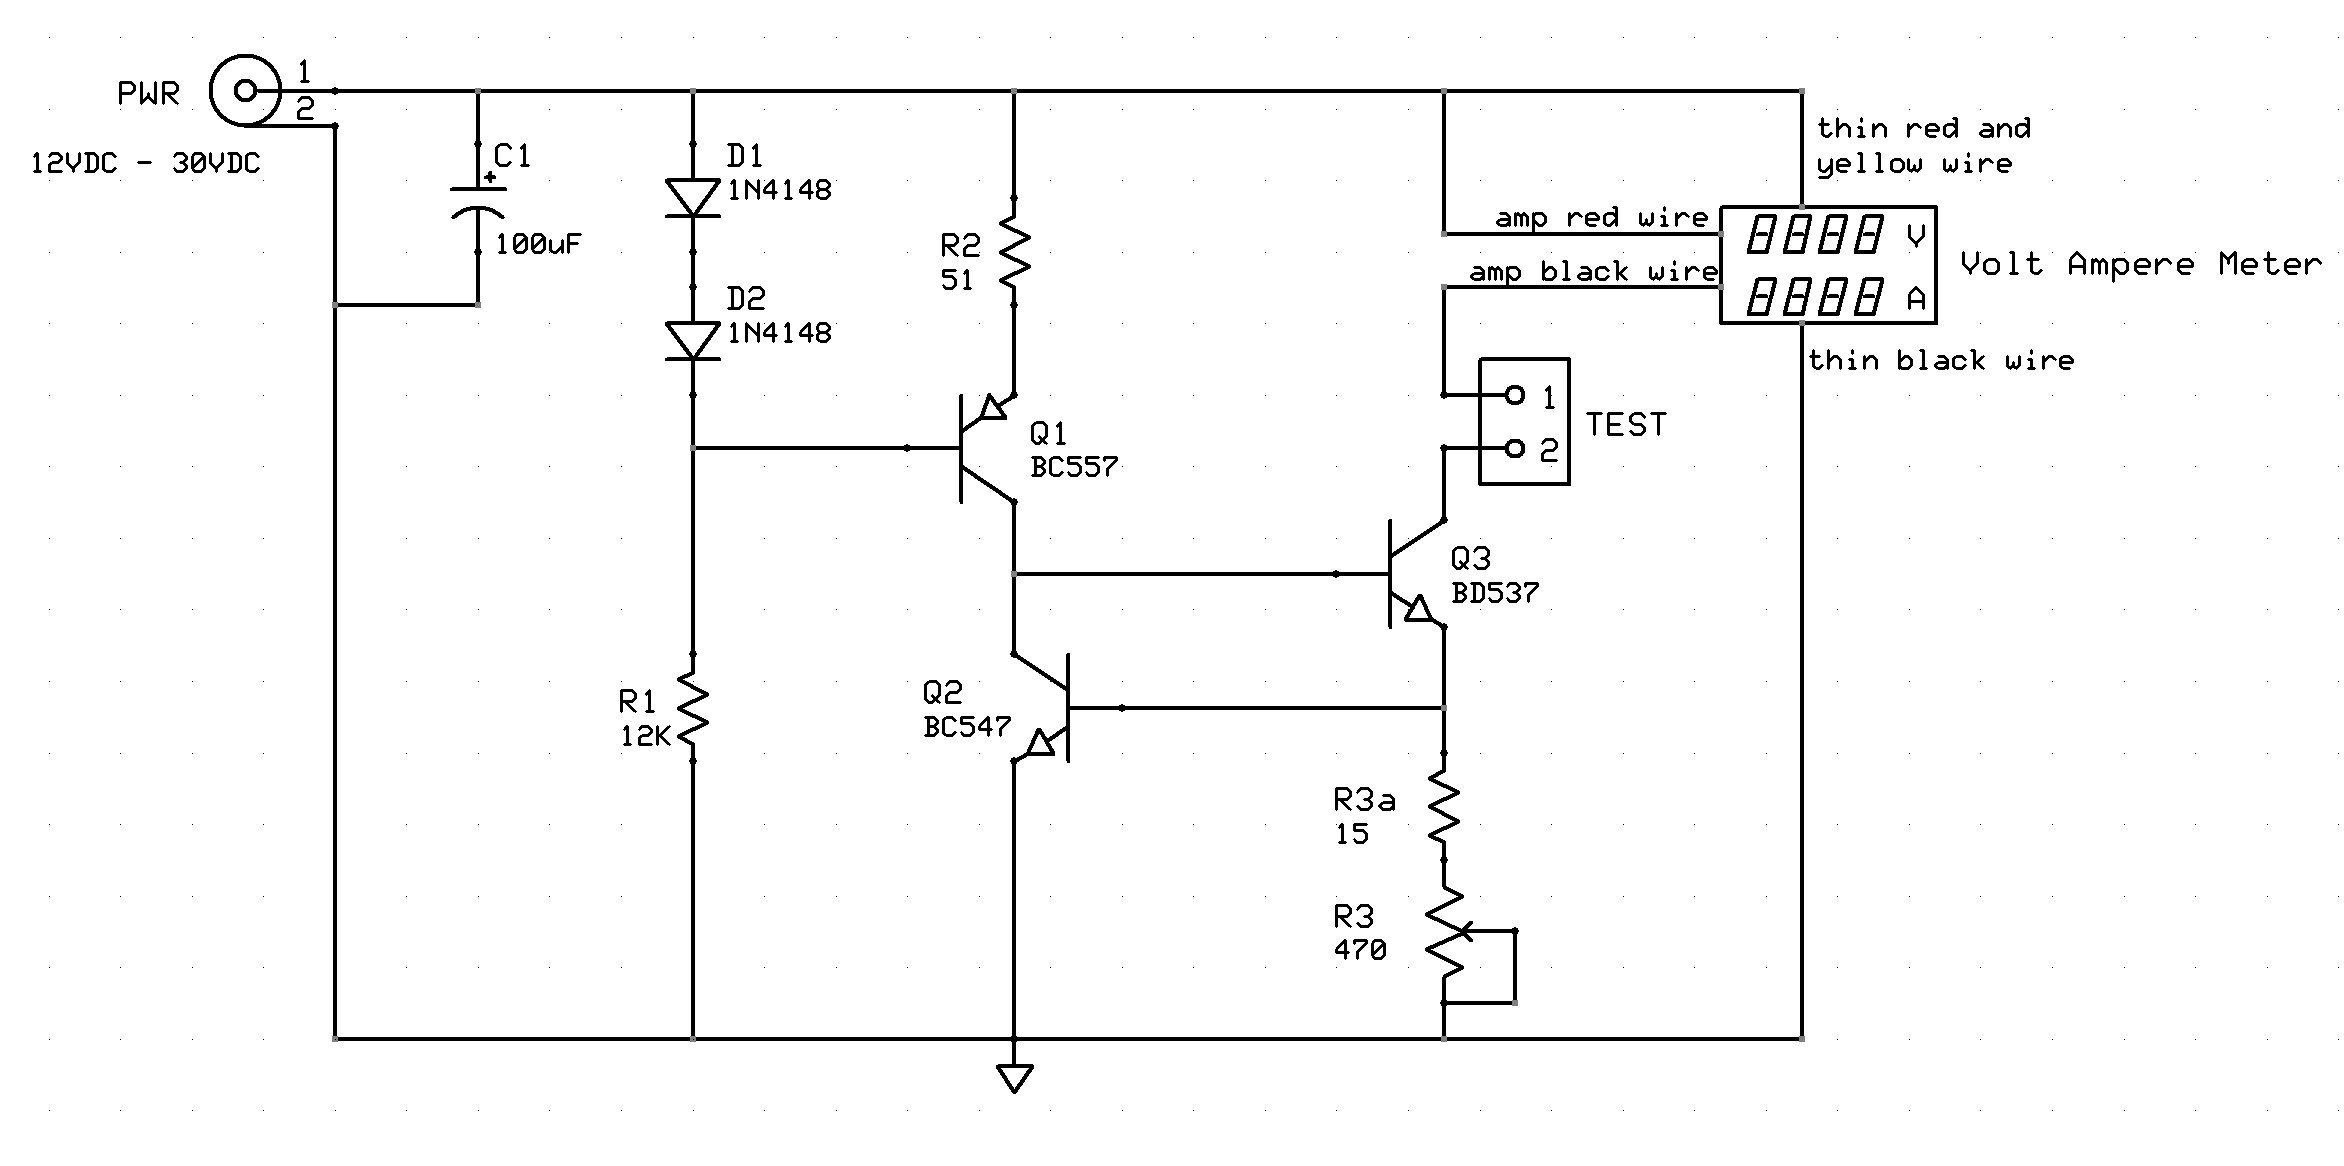
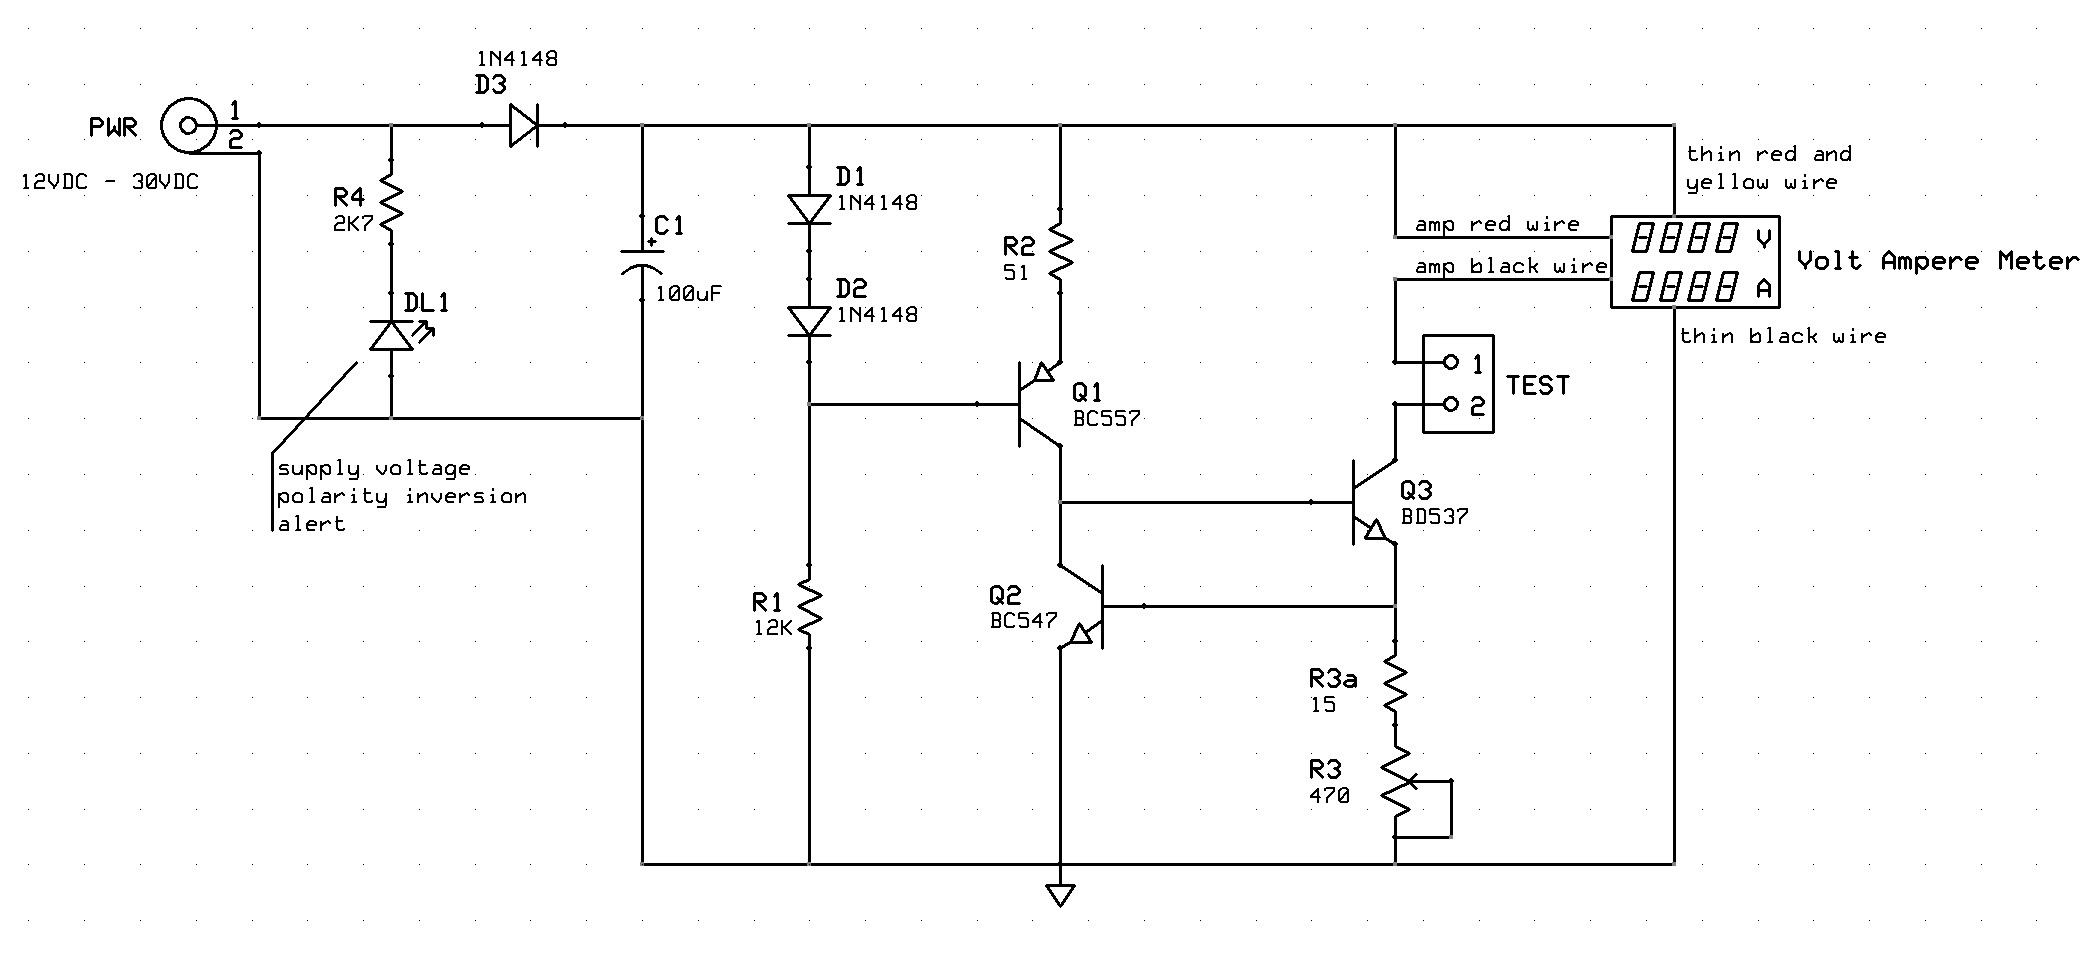
add polarity protection and circuit calculations

diff --git a/README.md b/README.md
@@ -1,7 +1,7 @@
 # Diode tester
-A simple tester to measure, under different current values, the voltage drop across a diode when forward biased, or the working voltage of a Zener diode, when reverse biased.
+A simple tester to measure, under different current values, the voltage drop across a diode when forward biased, or the working voltage of a zener diode when reverse biased.
 <br>
-The circuit may be powered from $12VDC$ to $30VDC$. Obviously the maximum measurable zener voltage depends on the supply voltage.
+The circuit may be powered from $12VDC$ to $24VDC$. Obviously the maximum measurable zener voltage depends on the supply voltage.
 
 ![overview](resources/diode-tester_overview.jpg)
 ![inside](resources/diode-tester_inside.jpg)
@@ -10,19 +10,52 @@ The circuit may be powered from $12VDC$ to $30VDC$. Obviously the maximum measur
 ## Specifications
 
 ### Features
-- supply voltage from $12VDC$ to $30VDC$
-- variable load current from $0$ to $50mA$
+- supply voltage from $12VDC$ to $24VDC$
+- protection against reverse polarity of the supply voltage
+- adjustable load current between about $1.5mA$ and $50mA$
 
 
-### PSpice simulation
+### PSpice Simulation
 ![plot](resources/pspice_plot.jpg)
 ![schematic](resources/pspice_schematic.jpg)
 <br>
 
 ##### Note: 
-In the worst case, i.e. with maximum supply voltage ($30VDC$) and load current ($50mA$), Q3 must be able to dissipate more than $1W$.
+In the worst case, i.e. with maximum supply voltage ($24VDC$) and load current ($50mA$), transistor Q3 must be able to dissipate more than $1W$.
 
-In the simulation, a value of $H_{FE}=15$ was set for the BD537.
+In the simulation, a value of $H_{FE}=15$ was set for the transistor BD537.
+
+### Circuit calculations
+#### Load driver network:
+The load current must be adjustable between about $1.5mA$ and $50mA$:
+
+$I_{C3} = V_{BE2}/R_3  =>  R_{3_{1.5mA}} = 350$&Omega; and $R_{3_{50mA}} = 14$&Omega; &nbsp; $ =>  R_{3a} = 15$&Omega;$, R_3 = 470$&Omega;
+
+$P_{R_{3_{MAX}}} = I_{C_{3_{MAX}}}^2 * R_{3_{MAX}} = 38mW$
+
+
+$V_{CE_3} = V_{CC} - V_{load} - V_{BE_2}$
+
+Assuming: $V_{load_{MIN}} = 0.3V$ and $V_{load_{MAX}} = 18V$
+$ => V_{CE_{3_{12V}}} = (2.3 - 11.1)V$ and $V_{CE_{3_{24V}}} = (5.3 - 23.1)V => V_{CE} = (2.3 - 23.1)V$
+
+$P_{Q_{3_{MAX}}} = V_{CE_{3_{MAX}}} * I_{C_{3_{MAX}}} = 1.1W$
+
+Assuming: $H_{FE_3} \geq 15 => I_{B_{3_{MIN}}} = I_{C_{3_{MAX}}}/H_{FE_3} = 3.3mA$
+
+#### Control & reference network:
+$V_{CE_2} = V_{BE_2} + V_{BE_3} = 1.4V$
+
+$2*V_D = 1.4V = V_{BE_1} + V_{R_2} * I_{R_2}$
+
+Assuming: $I_{R_2} = 10mA => R_2 = 51$&Omega;
+
+$V_{CE_1} = V_{CC} - V_{R_2} - V_{CE_2} => V_{CE_1} = (9.1 - 21.1)V$
+
+$P_{Q_{1_{MAX}}} = V_{CE_{1_{MAX}}} * I_{R_2} = 250mW$
+
+$P_{Q_{2_{MAX}}} = V_{CE_2} * (I_{R_2} - I_{B_3}) = 10mW$
+
 
 ### Hardware
 Schematics and PCB layouts are designed with ExpressPCB free CAD software.
